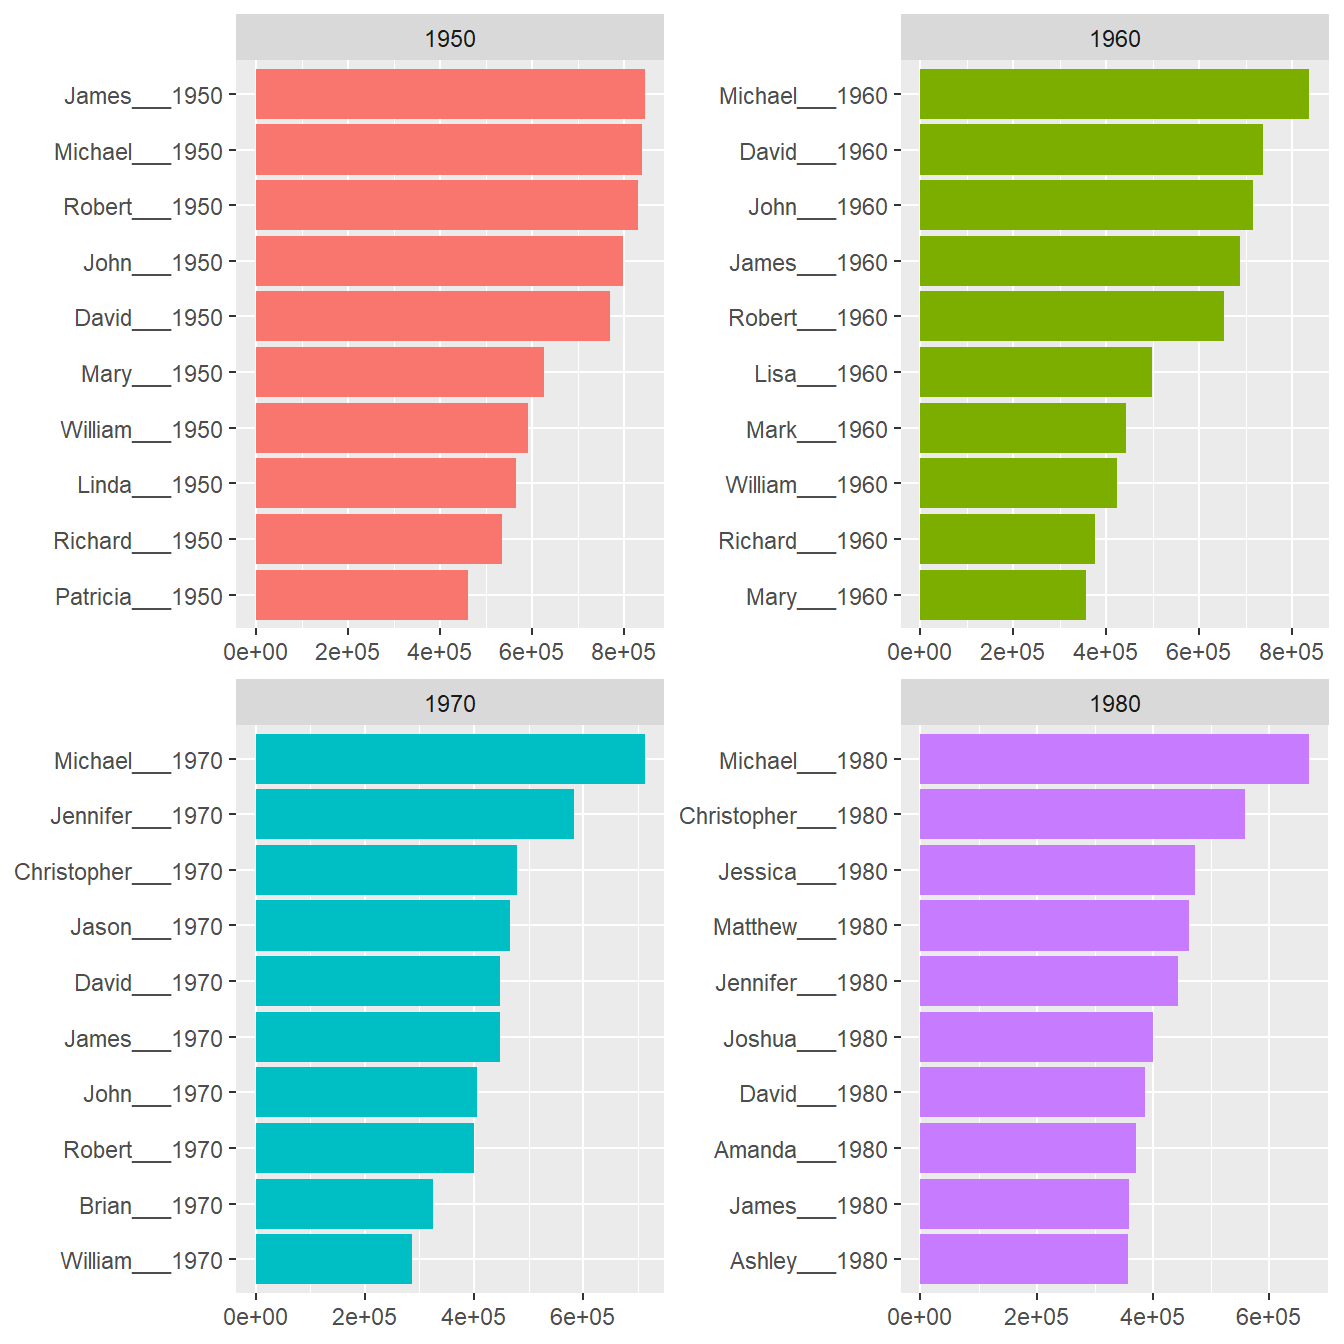
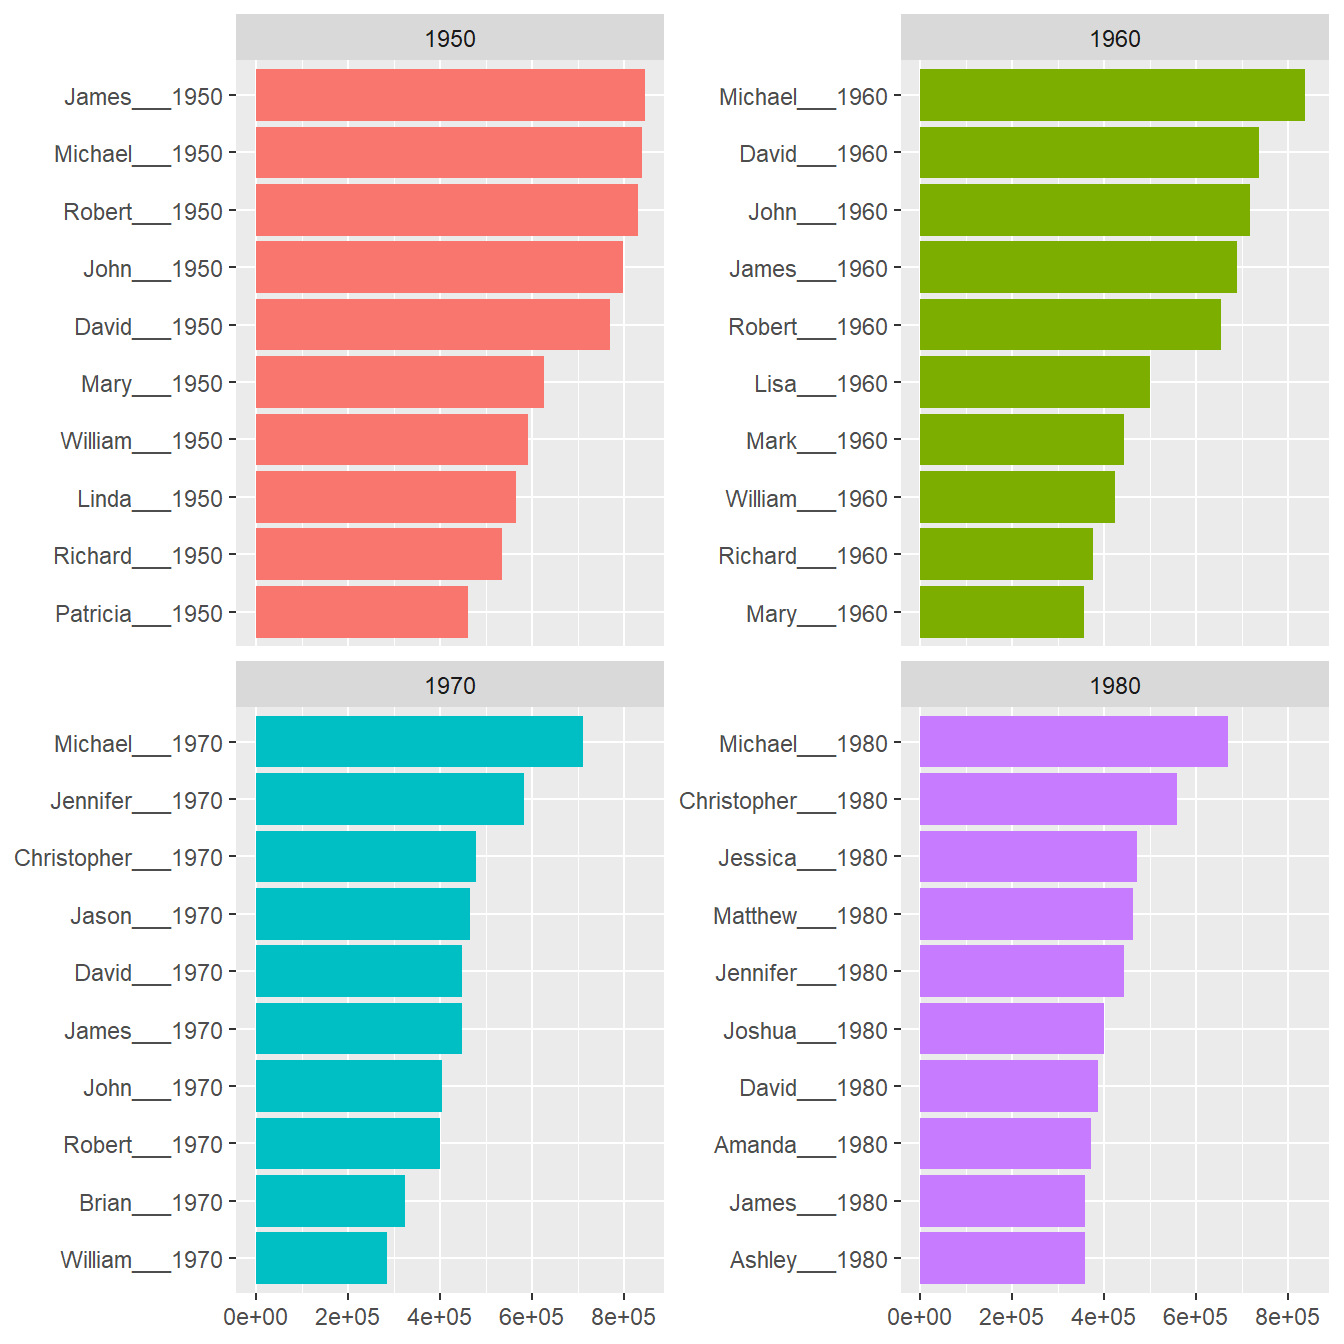
new post: reorder within facets

diff --git a/content/post/2019-11-29-reorder-varible-within-facets-reorder-within.html b/content/post/2019-11-29-reorder-varible-within-facets-reorder-within.html
@@ -142,7 +142,7 @@ top_names %&gt;%
   ggplot(aes(reorder_within(name, n, decade), n, fill = factor(decade))) + 
   geom_col() + 
   coord_flip() + 
-  facet_wrap(~ decade, scales = &quot;free&quot;) + 
+  facet_wrap(~ decade, scales = &quot;free_y&quot;) + 
   theme(legend.position = &quot;none&quot;) + 
   labs(x = NULL, y = NULL)</code></pre>
 <p><img src="/post/2019-11-29-reorder-varible-within-facets-reorder-within_files/figure-html/unnamed-chunk-8-1.png" width="672" /></p>

diff --git a/public/post/reorder-varible-within-facets-reorder-within/index.html b/public/post/reorder-varible-within-facets-reorder-within/index.html
@@ -635,7 +635,7 @@ top_names %&gt;%
   ggplot(aes(reorder_within(name, n, decade), n, fill = factor(decade))) + 
   geom_col() + 
   coord_flip() + 
-  facet_wrap(~ decade, scales = &quot;free&quot;) + 
+  facet_wrap(~ decade, scales = &quot;free_y&quot;) + 
   theme(legend.position = &quot;none&quot;) + 
   labs(x = NULL, y = NULL)</code></pre>
 <p><img src="/post/2019-11-29-reorder-varible-within-facets-reorder-within_files/figure-html/unnamed-chunk-8-1.png" width="672" /></p>
